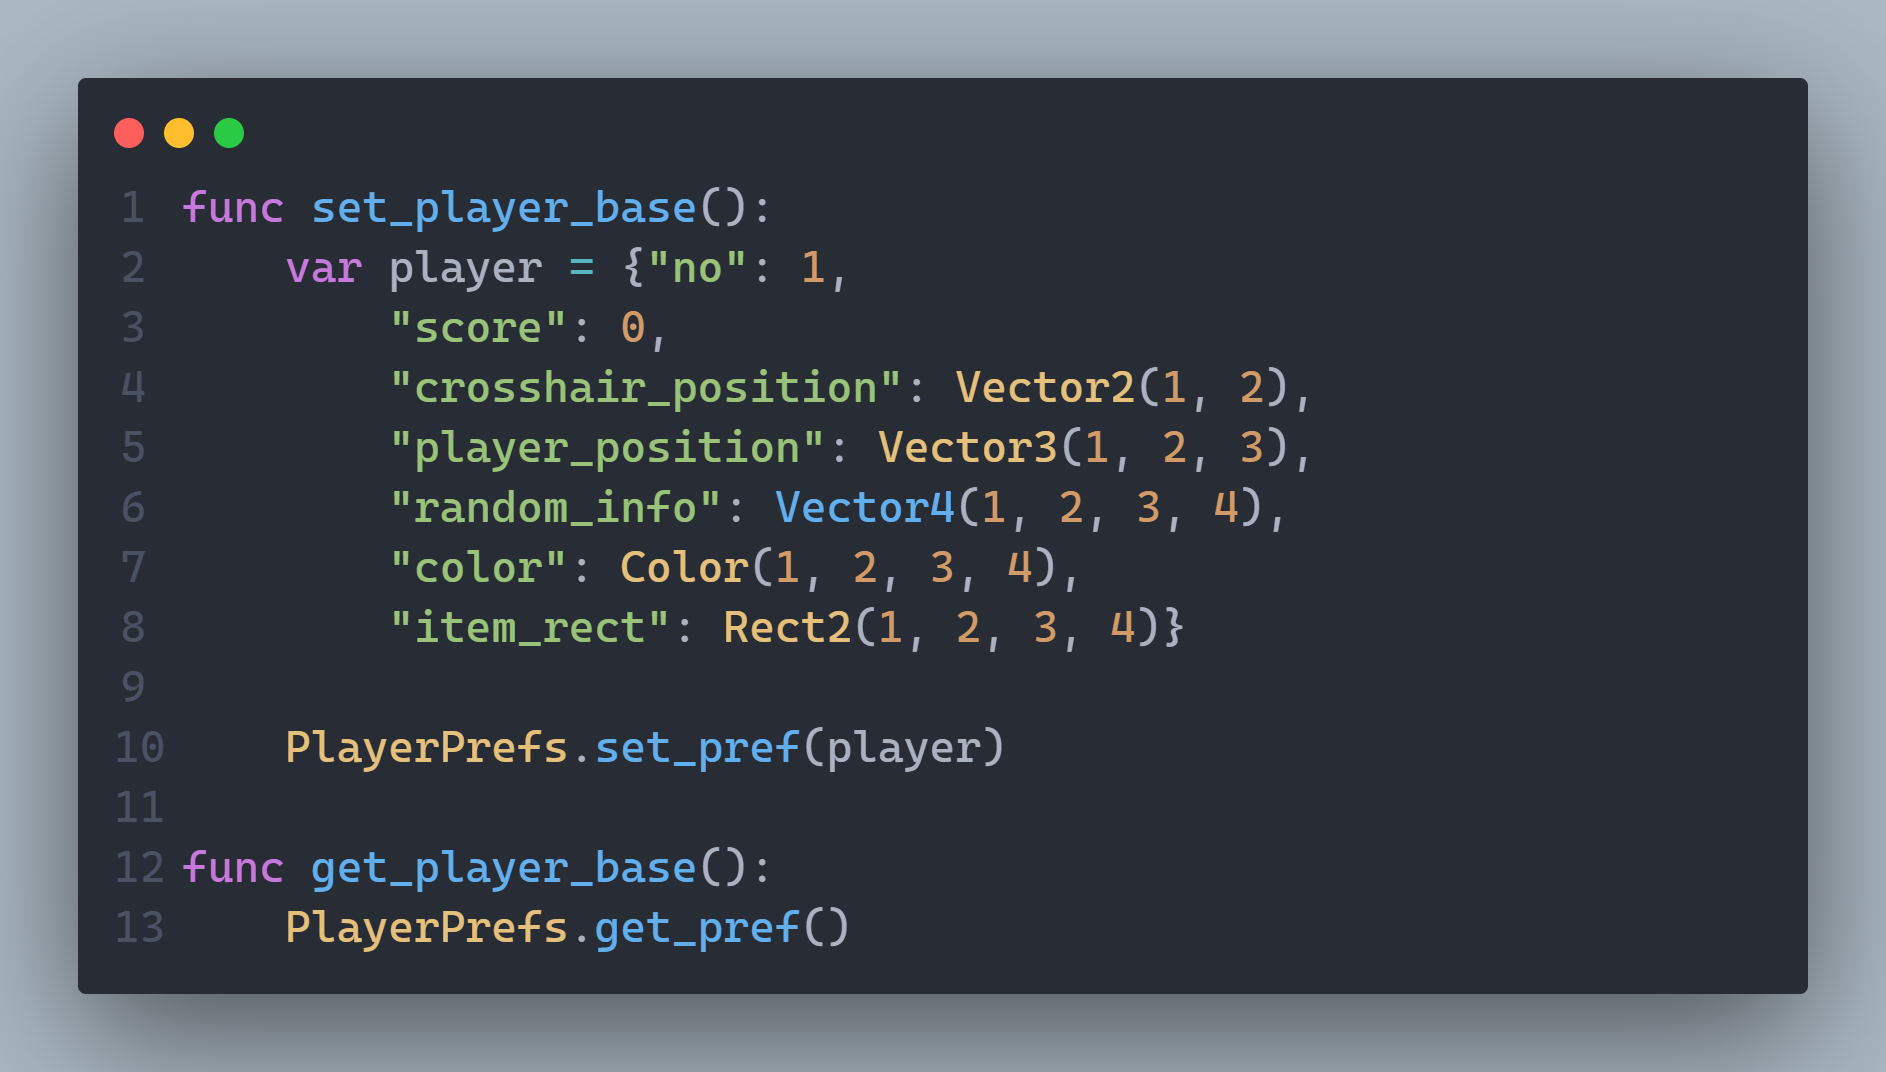
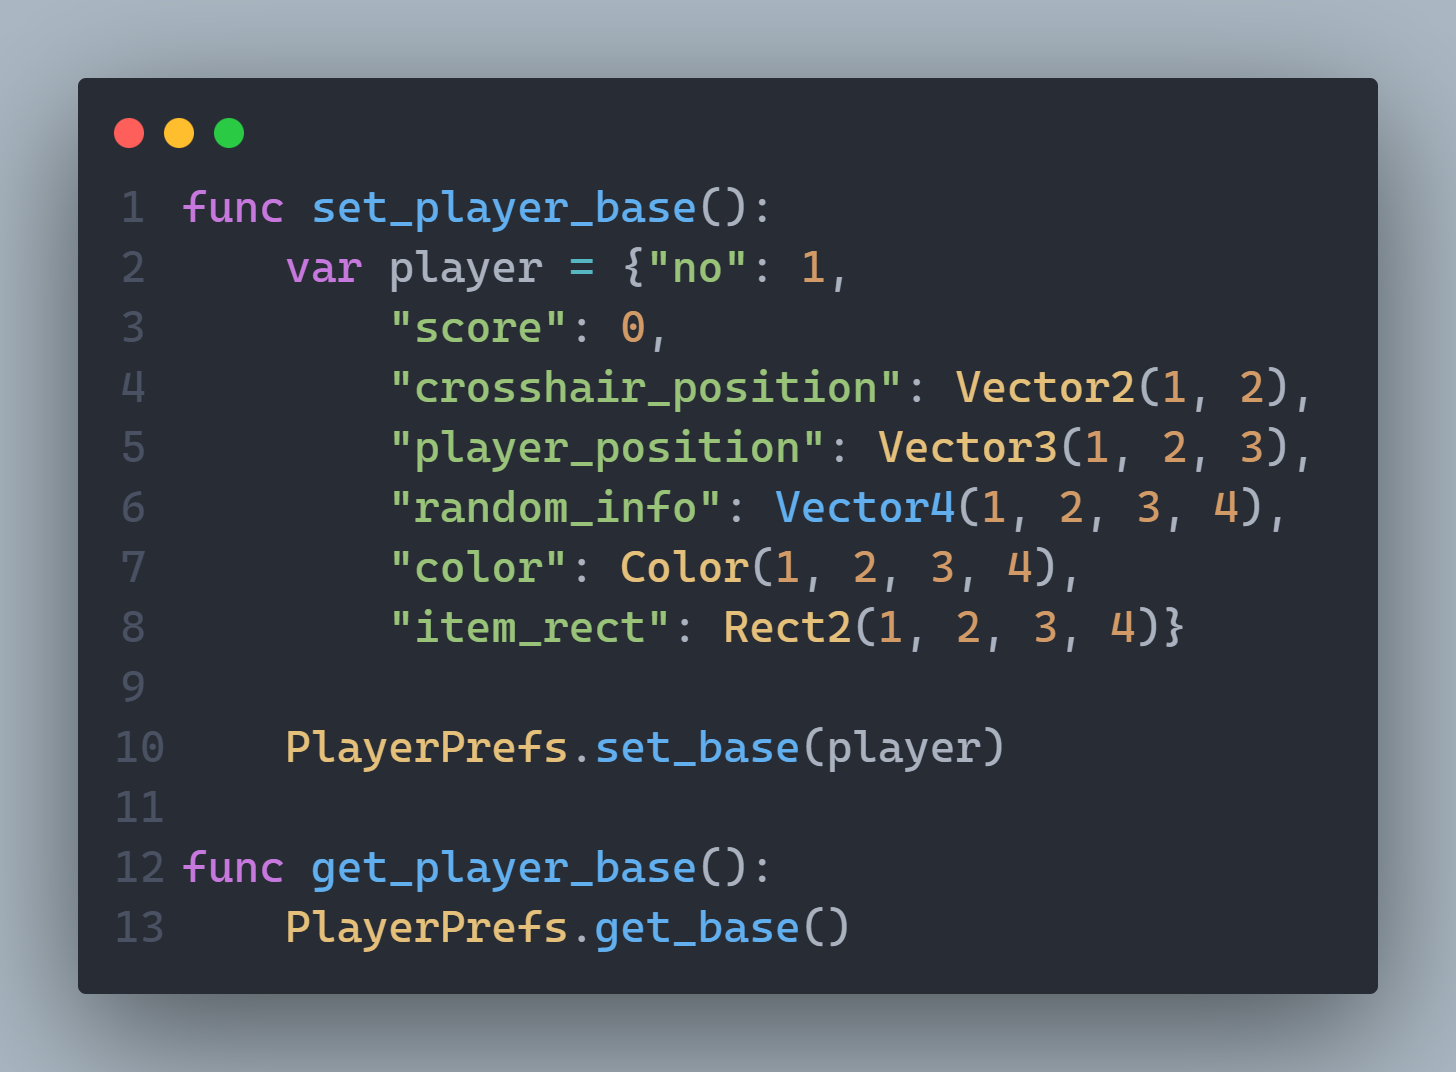
Delete prefs and Fixed wrong example Readme Update

diff --git a/README.md b/README.md
@@ -1,2 +1,61 @@
 # PlayerPrefs
- 
+
+<!-- centre image  -->
+<p align="center">
+  <img src="addons/PlayerPrefs/assets/PlayerPrefs_Icon_1.png" />
+</p>
+
+## Description
+
+This is a simple class that allows you to save and load data in a file. It is very easy to use and it is very useful for saving game data.
+
+![Alt text](addons/PlayerPrefs/assets/1.png)
+
+## How to use
+
+### Save data
+```gdscript
+
+# Save individual data
+func save_player():
+	PlayerPrefs.set_pref("no", 1)
+	PlayerPrefs.set_pref("name", "godot")
+	PlayerPrefs.set_pref("crosshair_position", Vector2(1, 2))
+	PlayerPrefs.set_pref("player_position", Vector3(1, 2, 3))
+	PlayerPrefs.set_pref("random_info", Vector4(1, 2, 3, 4))
+	PlayerPrefs.set_pref("color", Color(1, 2, 3, 4))
+	PlayerPrefs.set_pref("item_rect", Rect2(1, 2, 3, 4))
+
+# Save complete information
+func set_player_base():
+	var player = {"no": 1, 
+		"score": 0,
+		"crosshair_position": Vector2(1, 2),
+		"player_position": Vector3(1, 2, 3),
+		"random_info": Vector4(1, 2, 3, 4),
+		"color": Color(1, 2, 3, 4),
+		"item_rect": Rect2(1, 2, 3, 4)}
+	
+	PlayerPrefs.set_base(player)
+```
+
+### Load data
+```gd
+
+# Load individual data
+func get_player():
+	PlayerPrefs.get_pref("no", 0)
+	PlayerPrefs.get_pref("name", "")
+	PlayerPrefs.get_pref("crosshair_position", Vector2(0, 0))
+	PlayerPrefs.get_pref("player_position", Vector3(0, 0, 0))
+	PlayerPrefs.get_pref("random_info", Vector4(0, 0, 0, 0))
+	PlayerPrefs.get_pref("color", Color(0, 0, 0, 0))
+	PlayerPrefs.get_pref("item_rect", Rect2(0, 0, 0, 0))
+
+# Load complete information
+
+func get_player_base():
+	PlayerPrefs.get_base()
+```
+
+
